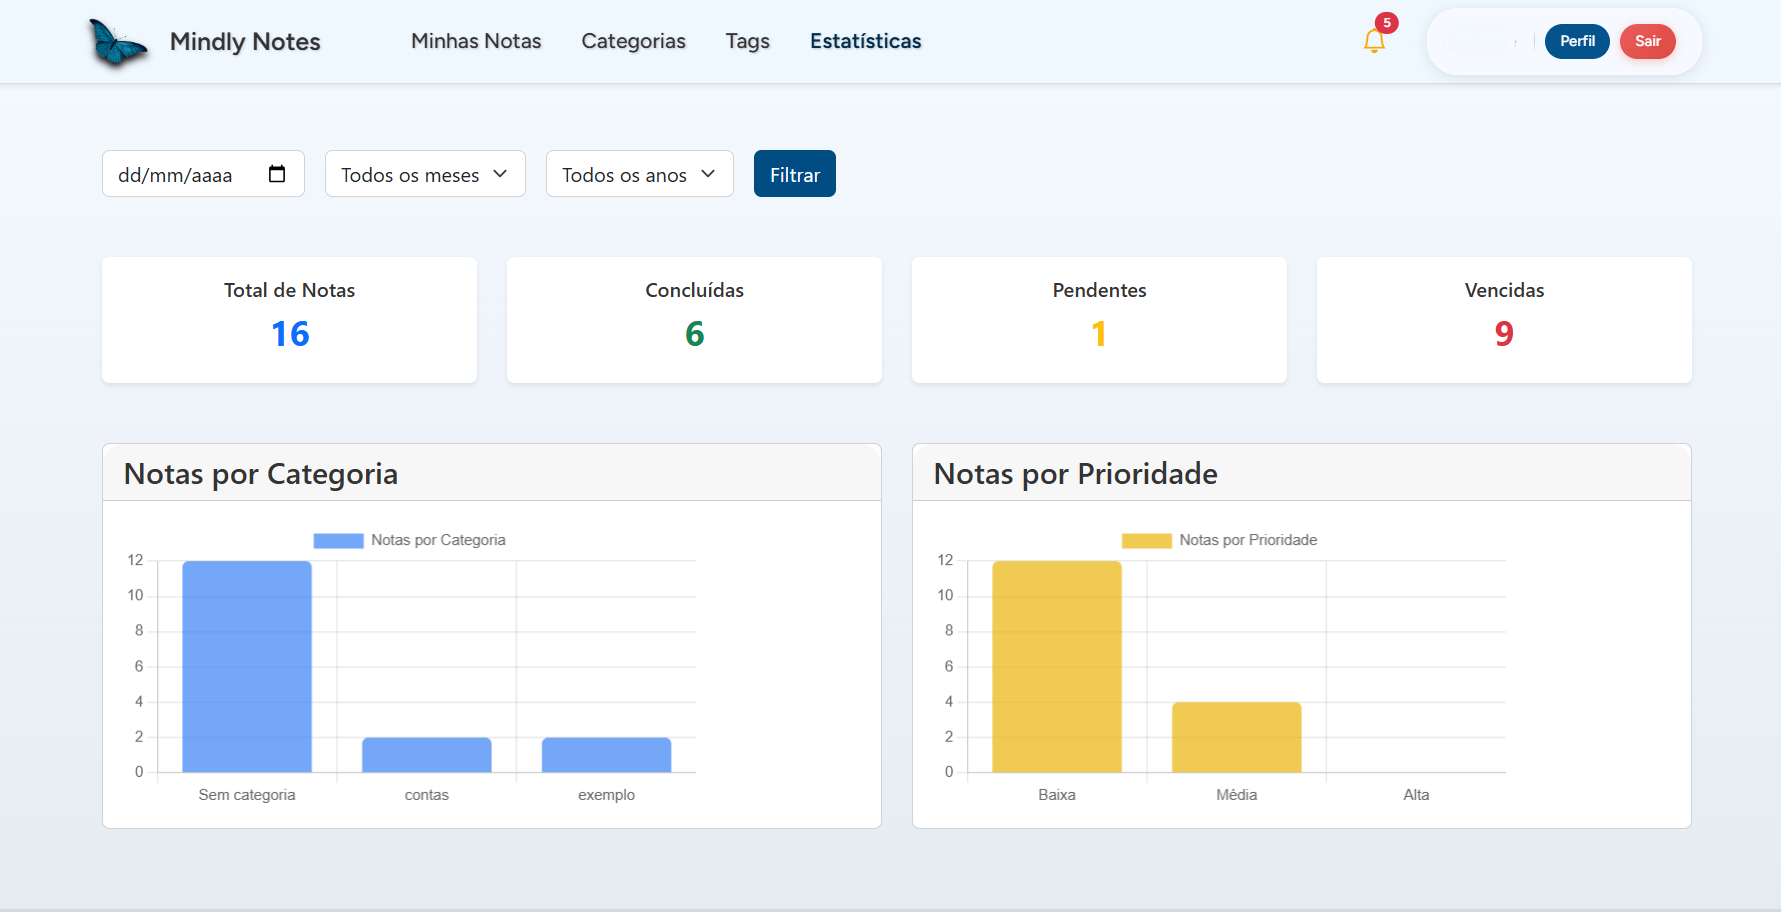
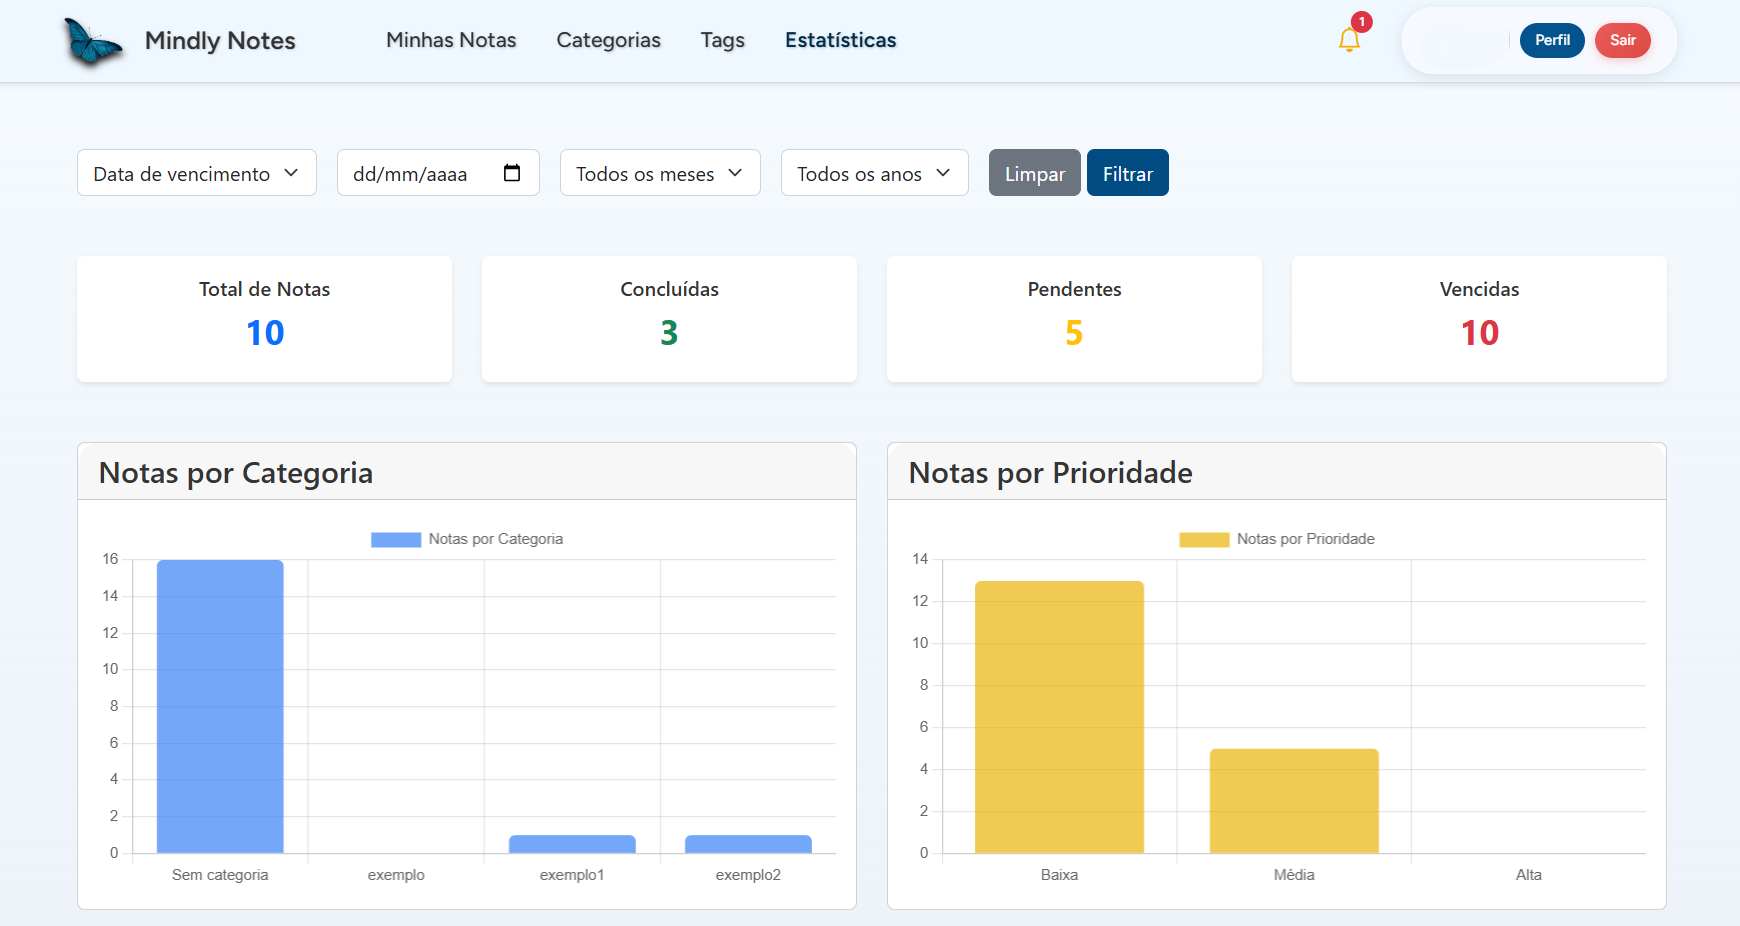
ajustes e melhoria nas estatisticas para melhor funcionamento

diff --git a/resources/views/dashboard.blade.php b/resources/views/dashboard.blade.php
@@ -6,8 +6,19 @@
         {{-- Filtros (data, mês, ano) --}}
         <form method="GET" action="{{ route('dashboard') }}" class="d-flex align-items-end gap-2 mb-4">
             <div class="row g-3">
+                {{-- Filtro por (vencimento/ criação) --}}
+                <div class="col-md-2 col-6 w-auto">
+                    <select name="filtro_por" class="form-select">
+                        <option value="vencimento"
+                            {{ (request('filtro_por') ?? 'vencimento') == 'vencimento' ? 'selected' : '' }}>Data de
+                            vencimento</option>
+                        <option value="criacao" {{ request('filtro_por') == 'criacao' ? 'selected' : '' }}>Data de criação
+                        </option>
+                    </select>
+                </div>
+
                 {{-- Data --}}
-                <div class="col-md-3 col-6 min-w-4 w-auto">
+                <div class="col-md-2 col-6 min-w-4 w-auto">
                     <input type="date" name="data" class="form-control" value="{{ request('data') }}">
                 </div>
 
@@ -35,7 +46,8 @@
                     </select>
                 </div>
 
-                <div class="col-md-3 col-6 w-auto">
+                <div class="col-md-2 col-6 w-auto">
+                    <a href="{{ route('dashboard') }}" class="btn btn-secondary">Limpar</a>
                     <button type="submit" class="btn btn-primary-ed">Filtrar</button>
                 </div>
             </div>
@@ -131,4 +143,69 @@
             }
         });
     </script>
+
+    {{-- Lista de notas filtradas --}}
+    <div class="container py-4">
+        <div class="card">
+            <h5 class="card-header">Notas</h5>
+            <div class="card-body">
+                @if ($notas->isEmpty())
+                    <p class="text-muted">Nenhuma nota encontrada com os filtros selecionados.</p>
+                @else
+                    <div class="table-responsive">
+                        <table class="table table-hover">
+                            <thead>
+                                <tr>
+                                    <th>Título</th>
+                                    <th>Categoria</th>
+                                    <th>Prioridade</th>
+                                    <th>Vencimento</th>
+                                    <th>Status</th>
+                                    <th>Tags</th>
+                                    <th></th>
+                                </tr>
+                            </thead>
+                            <tbody>
+                                @foreach ($notas as $nota)
+                                    <tr
+                                        class="{{ isset($highlightId) && $highlightId == $nota->id ? 'highlight-nota' : '' }}">
+                                        <td id="nota-{{ $nota->id }}" class="td-title" title="{{ $nota->titulo }}">
+                                            <a href="{{ route('notas.index', ['highlight' => $nota->id]) }}"
+                                                class="d-inline-block text-truncate" style="max-width:240px;">
+                                                {{ $nota->titulo }}
+                                            </a>
+                                        </td>
+                                        <td>{{ $nota->categoria->nome ?? '-' }}</td>
+                                        <td>{{ $nota->prioridade->nome ?? '-' }}</td>
+                                        <td>{{ $nota->data_vencimento ? $nota->data_vencimento->format('d/m/Y') : '-' }}
+                                        </td>
+                                        <td>
+                                            @if ($nota->concluido)
+                                                <span class="badge bg-success">Concluída</span>
+                                            @elseif($nota->data_vencimento && $nota->data_vencimento < now())
+                                                <span class="badge bg-danger">Vencida</span>
+                                            @else
+                                                <span class="badge bg-warning text-dark">Pendente</span>
+                                            @endif
+                                        </td>
+                                        <td>
+                                            @if ($nota->tags && $nota->tags->isNotEmpty())
+                                                {{ $nota->tags->pluck('nome')->join(', ') }}
+                                            @else
+                                                -
+                                            @endif
+                                        </td>
+                                    </tr>
+                                @endforeach
+                            </tbody>
+                        </table>
+                    </div>
+
+                    <div class="d-flex justify-content-center">
+                        {{ $notas->links() }}
+                    </div>
+                @endif
+            </div>
+        </div>
+    </div>
 @endsection

diff --git a/app/Http/Controllers/DashboardController.php b/app/Http/Controllers/DashboardController.php
@@ -18,29 +18,43 @@ class DashboardController extends Controller
         $userId = Auth::id();
         $query = Nota::where('user_id', $userId);
 
-        // Filtros por data, mês e ano
+        $highlightId = $request->get('highlight') ?? session('highlightId');
+
+        // Filtros por data: permitir filtrar por data de vencimento ou data de criação.
+        // O usuário pode escolher com o campo `filtro_por` (valores: 'vencimento'|'criacao').
+        $filterBy = $request->input('filtro_por', 'vencimento');
+        $dateColumn = $filterBy === 'criacao' ? 'created_at' : 'data_vencimento';
+
         if ($request->filled('data')) {
-            $query->whereDate('created_at', $request->input('data'));
+            $query->whereDate($dateColumn, $request->input('data'));
         }
 
         if ($request->filled('mes')) {
-            $query->whereMonth('created_at', $request->input('mes'));
+            $query->whereMonth($dateColumn, $request->input('mes'));
         }
 
         if ($request->filled('ano')) {
-            $query->whereYear('created_at', $request->input('ano'));
+            $query->whereYear($dateColumn, $request->input('ano'));
         }
 
-        $notas = $query->get();
+        // Obtenha coleção completa para cálculos/estatísticas e uma versão paginada
+        $notasCollection = (clone $query)->get();
+
+        // Lista paginada para exibir no dashboard (com relacionamentos carregados)
+        $notas = (clone $query)
+            ->with(['categoria', 'prioridade', 'tags'])
+            ->orderBy('data_vencimento')
+            ->paginate(10)
+            ->withQueryString();
 
         // Estatísticas principais
-        $notasConcluidas = $notas->where('concluido', true);
+        $notasConcluidas = $notasCollection->where('concluido', true);
 
-        $notasVencidas = $notas->filter(function ($nota) {
+        $notasVencidas = $notasCollection->filter(function ($nota) {
             return !$nota->concluido && $nota->data_vencimento && $nota->data_vencimento < now();
         });
 
-        $notasPendentes = $notas->filter(function ($nota) {
+        $notasPendentes = $notasCollection->filter(function ($nota) {
             return !$nota->concluido && (
                 !$nota->data_vencimento || $nota->data_vencimento >= now()
             );
@@ -54,30 +68,30 @@ class DashboardController extends Controller
         ];
 
         // Agrupamento por categoria
-        $notasPorCategoria = Categoria::where('user_id', $userId)->withCount(['notas as count' => function ($q) use ($userId, $request) {
-            $q->where('user_id', $userId)->whereNull('deleted_at');//para nao contar com as notas da lixeira
+        $notasPorCategoria = Categoria::where('user_id', $userId)->withCount(['notas as count' => function ($q) use ($userId, $request, $dateColumn) {
+            $q->where('user_id', $userId)->whereNull('deleted_at'); //para nao contar com as notas da lixeira
             if ($request->filled('data')) {
-                $q->whereDate('created_at', $request->input('data'));
+                $q->whereDate($dateColumn, $request->input('data'));
             }
             if ($request->filled('mes')) {
-                $q->whereMonth('created_at', $request->input('mes'));
+                $q->whereMonth($dateColumn, $request->input('mes'));
             }
             if ($request->filled('ano')) {
-                $q->whereYear('created_at', $request->input('ano'));
+                $q->whereYear($dateColumn, $request->input('ano'));
             }
         }])->get();
 
         // Agrupamento por prioridade
-        $notasPorPrioridade = Prioridade::with(['notas' => function ($q) use ($userId, $request) {
-            $q->where('user_id', $userId)->whereNull('deleted_at');;
+        $notasPorPrioridade = Prioridade::with(['notas' => function ($q) use ($userId, $request, $dateColumn) {
+            $q->where('user_id', $userId)->whereNull('deleted_at');
             if ($request->filled('data')) {
-                $q->whereDate('created_at', $request->input('data'));
+                $q->whereDate($dateColumn, $request->input('data'));
             }
             if ($request->filled('mes')) {
-                $q->whereMonth('created_at', $request->input('mes'));
+                $q->whereMonth($dateColumn, $request->input('mes'));
             }
             if ($request->filled('ano')) {
-                $q->whereYear('created_at', $request->input('ano'));
+                $q->whereYear($dateColumn, $request->input('ano'));
             }
         }])->get()->map(function ($prioridade) {
             return (object) [
@@ -95,7 +109,6 @@ class DashboardController extends Controller
             return [$item->prioridade->nome => $item->total];
         });
 
-        return view('dashboard', compact('stats', 'notasPorCategoria', 'notasPorPrioridade', 'graficoCategorias', 'graficoPrioridades'));
+        return view('dashboard', compact('stats', 'notasPorCategoria', 'notasPorPrioridade', 'graficoCategorias', 'graficoPrioridades', 'notas', 'highlightId'));
     }
 }
-

diff --git a/app/Http/Controllers/NotaController.php b/app/Http/Controllers/NotaController.php
@@ -29,7 +29,6 @@ class NotaController extends Controller
             $highlightId = intval($highlightId);
         }
 
-
         $notasExcluidasCount = Nota::onlyTrashed()
             ->where('user_id', auth()->id())
             ->count();
@@ -103,6 +102,36 @@ class NotaController extends Controller
         $ordem = $request->input('ordem', 'desc');
         $query->orderBy('created_at', $ordem);
 
+        // Se há highlight e a nota é válida, calcular página e redirecionar
+        if ($highlightId) {
+            $notaHighlight = Nota::where('id', $highlightId)
+                ->where('user_id', auth()->id())
+                ->first();
+            
+            if ($notaHighlight) {
+                // Contar quantas notas vêm antes da nota com highlight
+                $posicao = (clone $query)
+                    ->where('created_at', '>', $notaHighlight->created_at)
+                    ->orWhere(function ($q) use ($notaHighlight) {
+                        $q->where('created_at', '=', $notaHighlight->created_at)
+                            ->where('id', '<', $notaHighlight->id);
+                    })
+                    ->count();
+                
+                // Calcular página (dividir por 10 itens por página)
+                $page = floor($posicao / 10) + 1;
+                
+                // Redirecionar para a página correta com o anchor (remover parâmetro highlight para evitar loop)
+                $queryParams = $request->query();
+                unset($queryParams['highlight']);
+                $queryParams['page'] = $page;
+                
+                $url = route('notas.index', $queryParams) . "#nota-{$highlightId}";
+                
+                return redirect()->to($url);
+            }
+        }
+
         // Paginação (10 itens por página)
         $notas = $query->paginate(10)->withQueryString();
         $categorias = Categoria::where('user_id', auth()->id())->get();
@@ -116,7 +145,6 @@ class NotaController extends Controller
             ->groupBy('prioridade_id')
             ->with('prioridade')
             ->get();
-
 
         return view('notas.index', compact('notas', 'highlightId', 'categorias', 'tags', 'prioridades', 'notasPorPrioridade', 'notasExcluidasCount'));
     }

diff --git a/resources/views/notas/index.blade.php b/resources/views/notas/index.blade.php
@@ -129,7 +129,7 @@
         {{-- Lista de Notas --}}
         @forelse($notas as $nota)
             <div class="mb-4">
-                <div
+                <div id="nota-{{ $nota->id }}"
                     class="card h-100 shadow-sm w-100  {{ isset($highlightId) && $highlightId == $nota->id ? 'highlight-nota' : '' }}">
                     <div class="card-body d-flex flex-column position-relative">
                         <h5 class="card-title pb-1 pe-5 text-truncate" id="tituloResumido{{ $nota->id }}"
@@ -525,6 +525,29 @@
                     behavior: prefersReduced ? "auto" : "smooth",
                 });
             });
+        });
+
+        // Detecta fragment #nota-X e aplica highlight + scroll
+        window.addEventListener('load', function() {
+            try {
+                const hash = window.location.hash;
+                if (hash && hash.startsWith('#nota-')) {
+                    // Pequeno delay para garantir que o DOM está pronto
+                    setTimeout(() => {
+                        const el = document.querySelector(hash);
+                        if (el) {
+                            el.classList.add('highlight-nota');
+                            el.scrollIntoView({ behavior: 'smooth', block: 'center' });
+                            // Remove highlight após 5 segundos
+                            setTimeout(() => {
+                                el.classList.remove('highlight-nota');
+                            }, 5000);
+                        }
+                    }, 100);
+                }
+            } catch (e) {
+                // ignore
+            }
         });
     </script>
 
